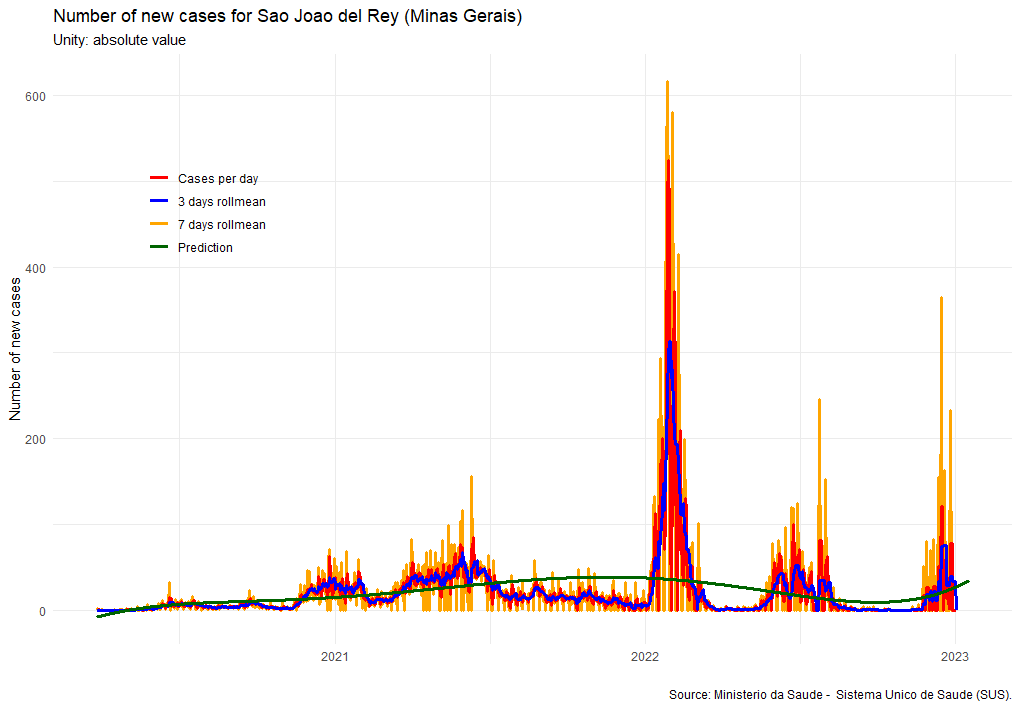
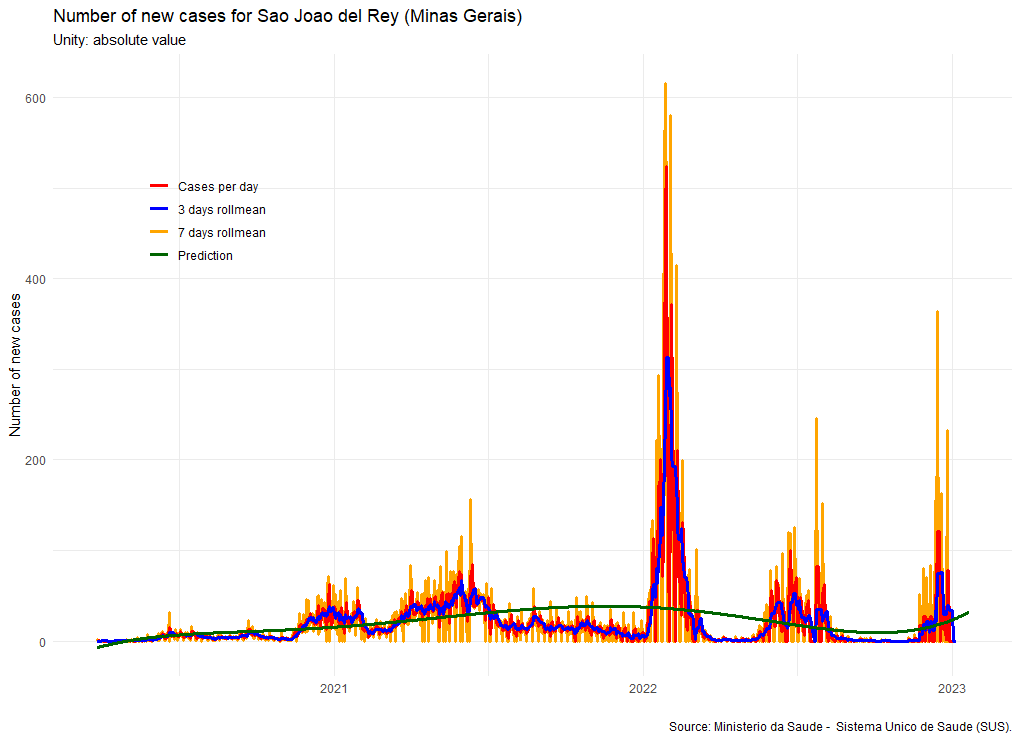
Update README file

diff --git a/README.md b/README.md
@@ -232,7 +232,7 @@ cases, respectively, for Brazil and for the municipality of Sao Joao del
 Rey (belonging to the state of Minas Gerais), a 3-day moving average, a
 7-day moving average and the forecast, obtained by polynomial
 interpolation of degree 5, covering the entire period plus 15 days (last
-day of observed data is 2023-01-02).
+day of observed data is 2023-01-06).
 
 <img src="man/figures/predCases.png" width="100%" />  
 
@@ -267,7 +267,7 @@ caused by Covid-19, respectively, for Brazil and for the municipality of
 Sao Joao del Rey (belonging to the state of Minas Gerais), a 3-day
 moving average, a 7-day moving average and the forecast, obtained by
 polynomial interpolation of degree 5, covering the entire period plus 15
-days (last day of observed data is 2023-01-02).
+days (last day of observed data is 2023-01-06).
 
 <img src="man/figures/predDeaths.png" width="100%" />  
 
